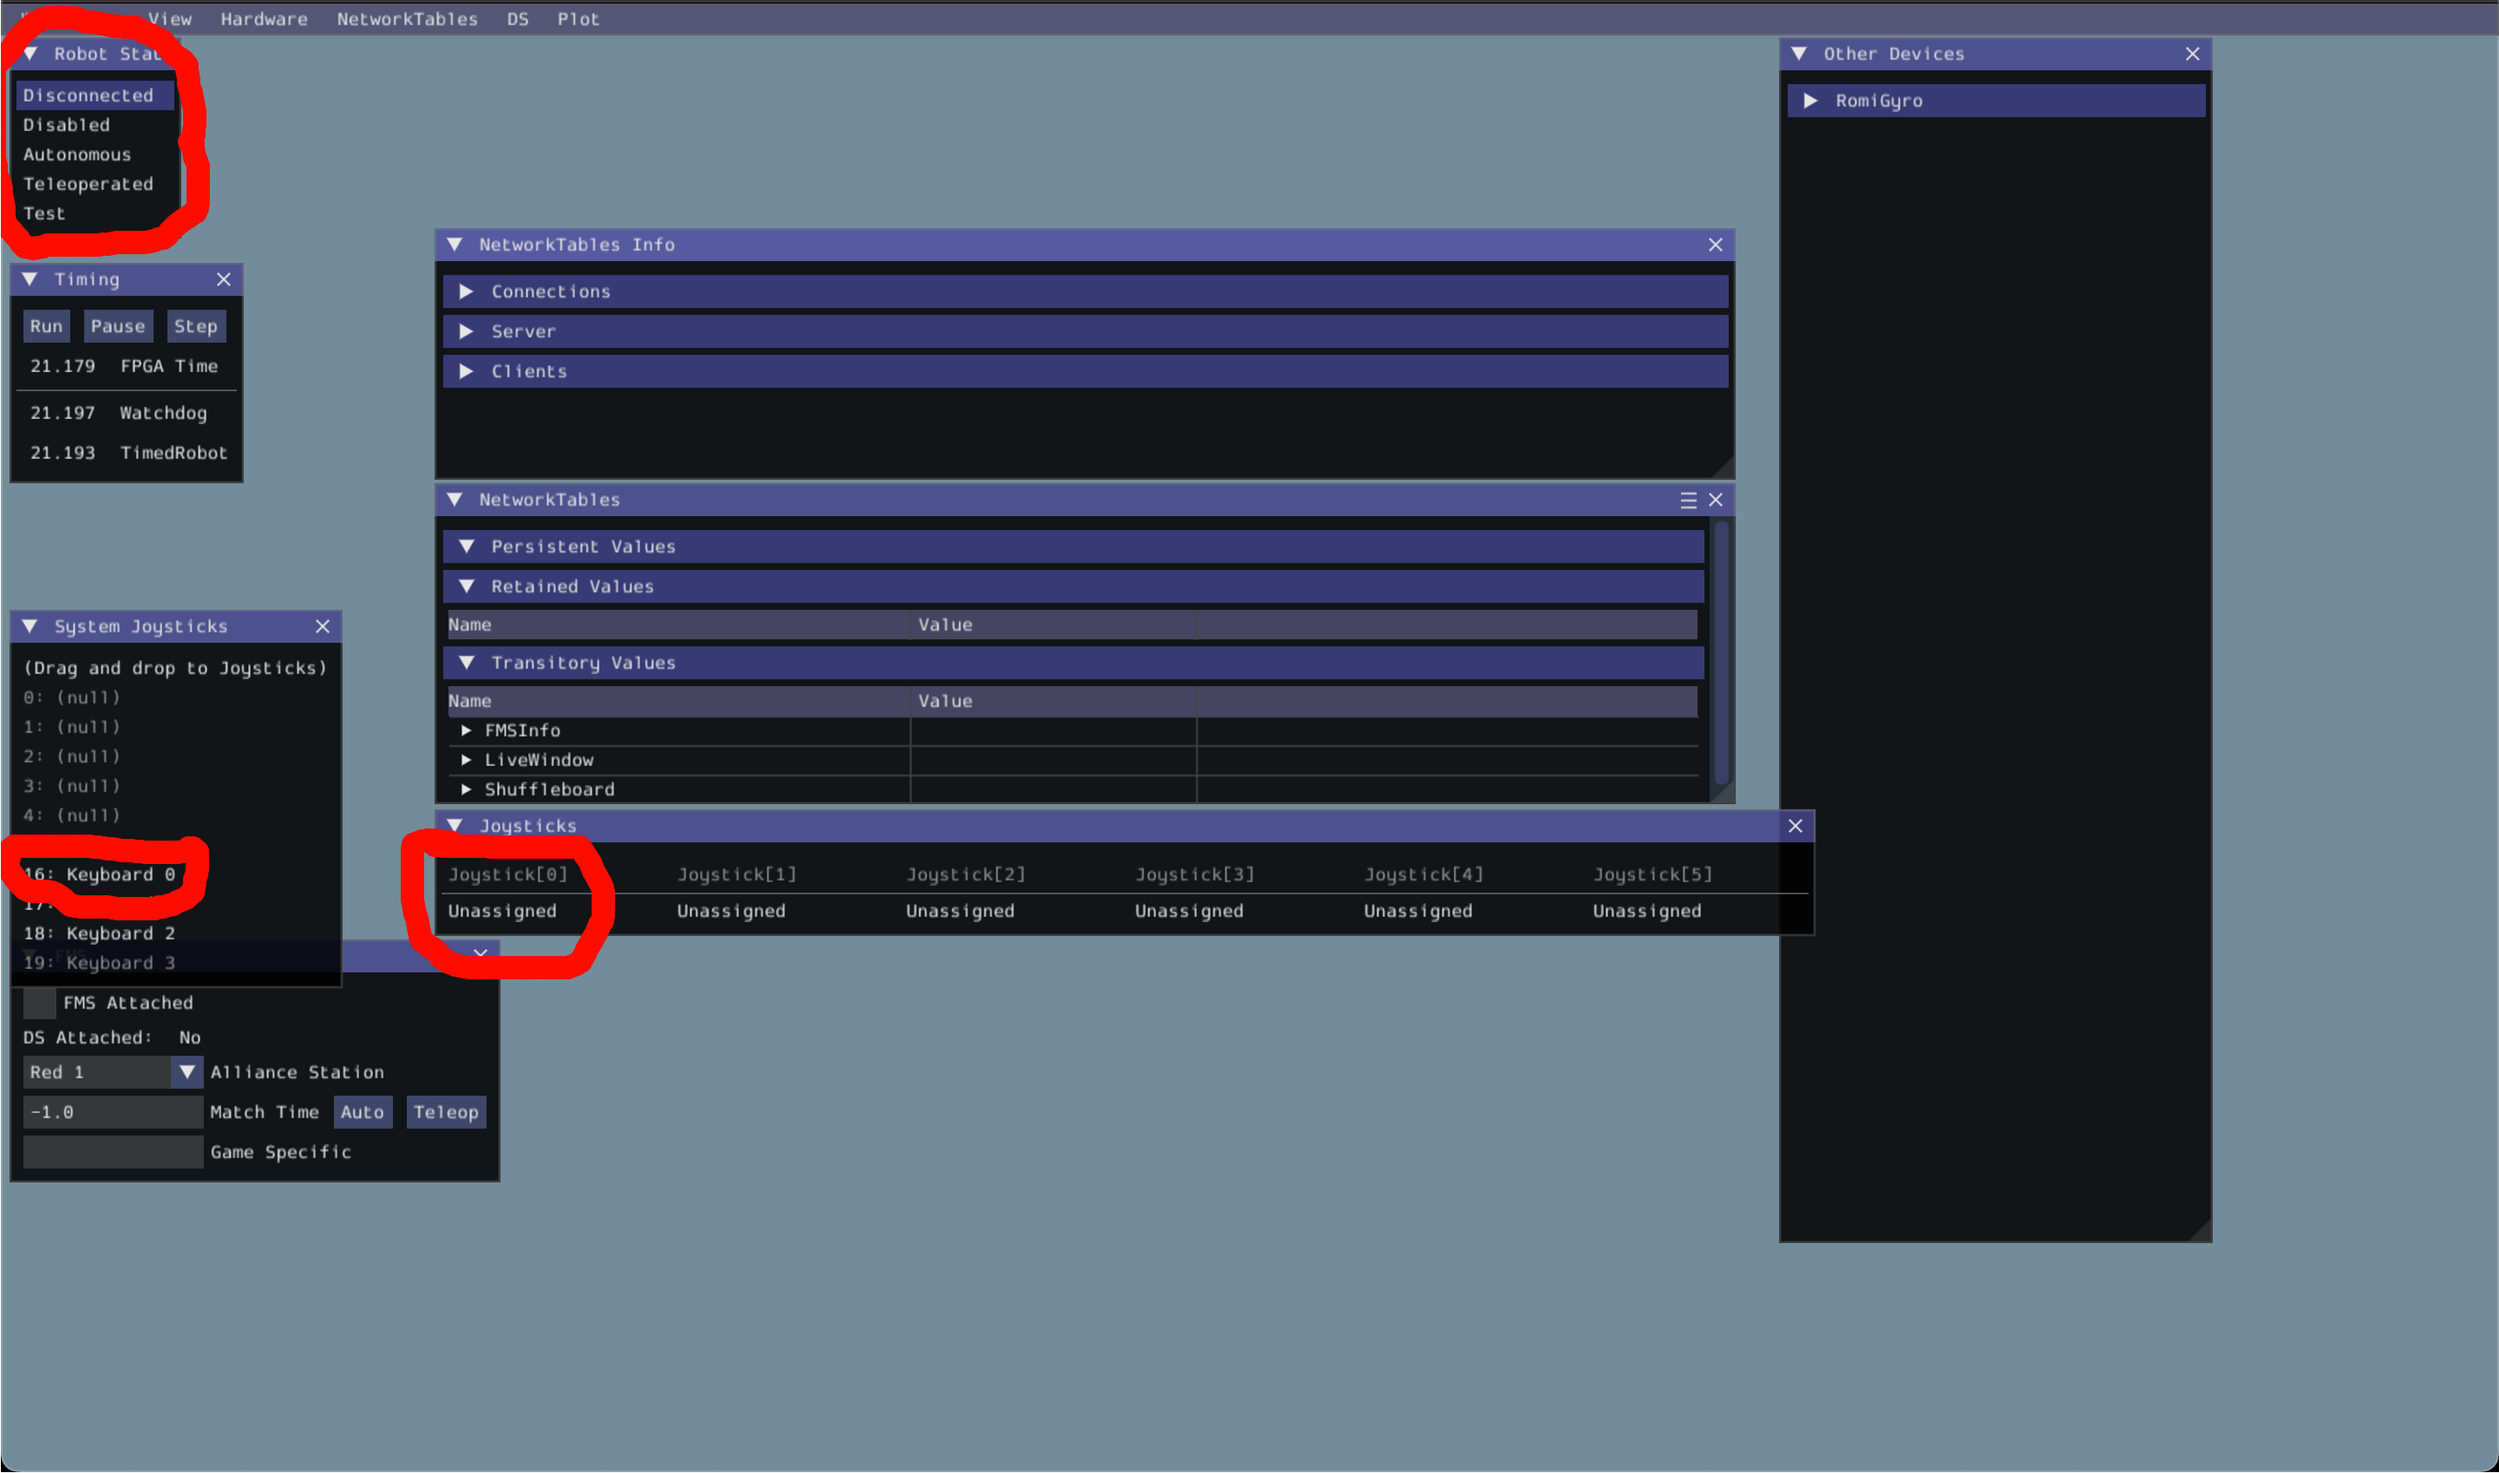
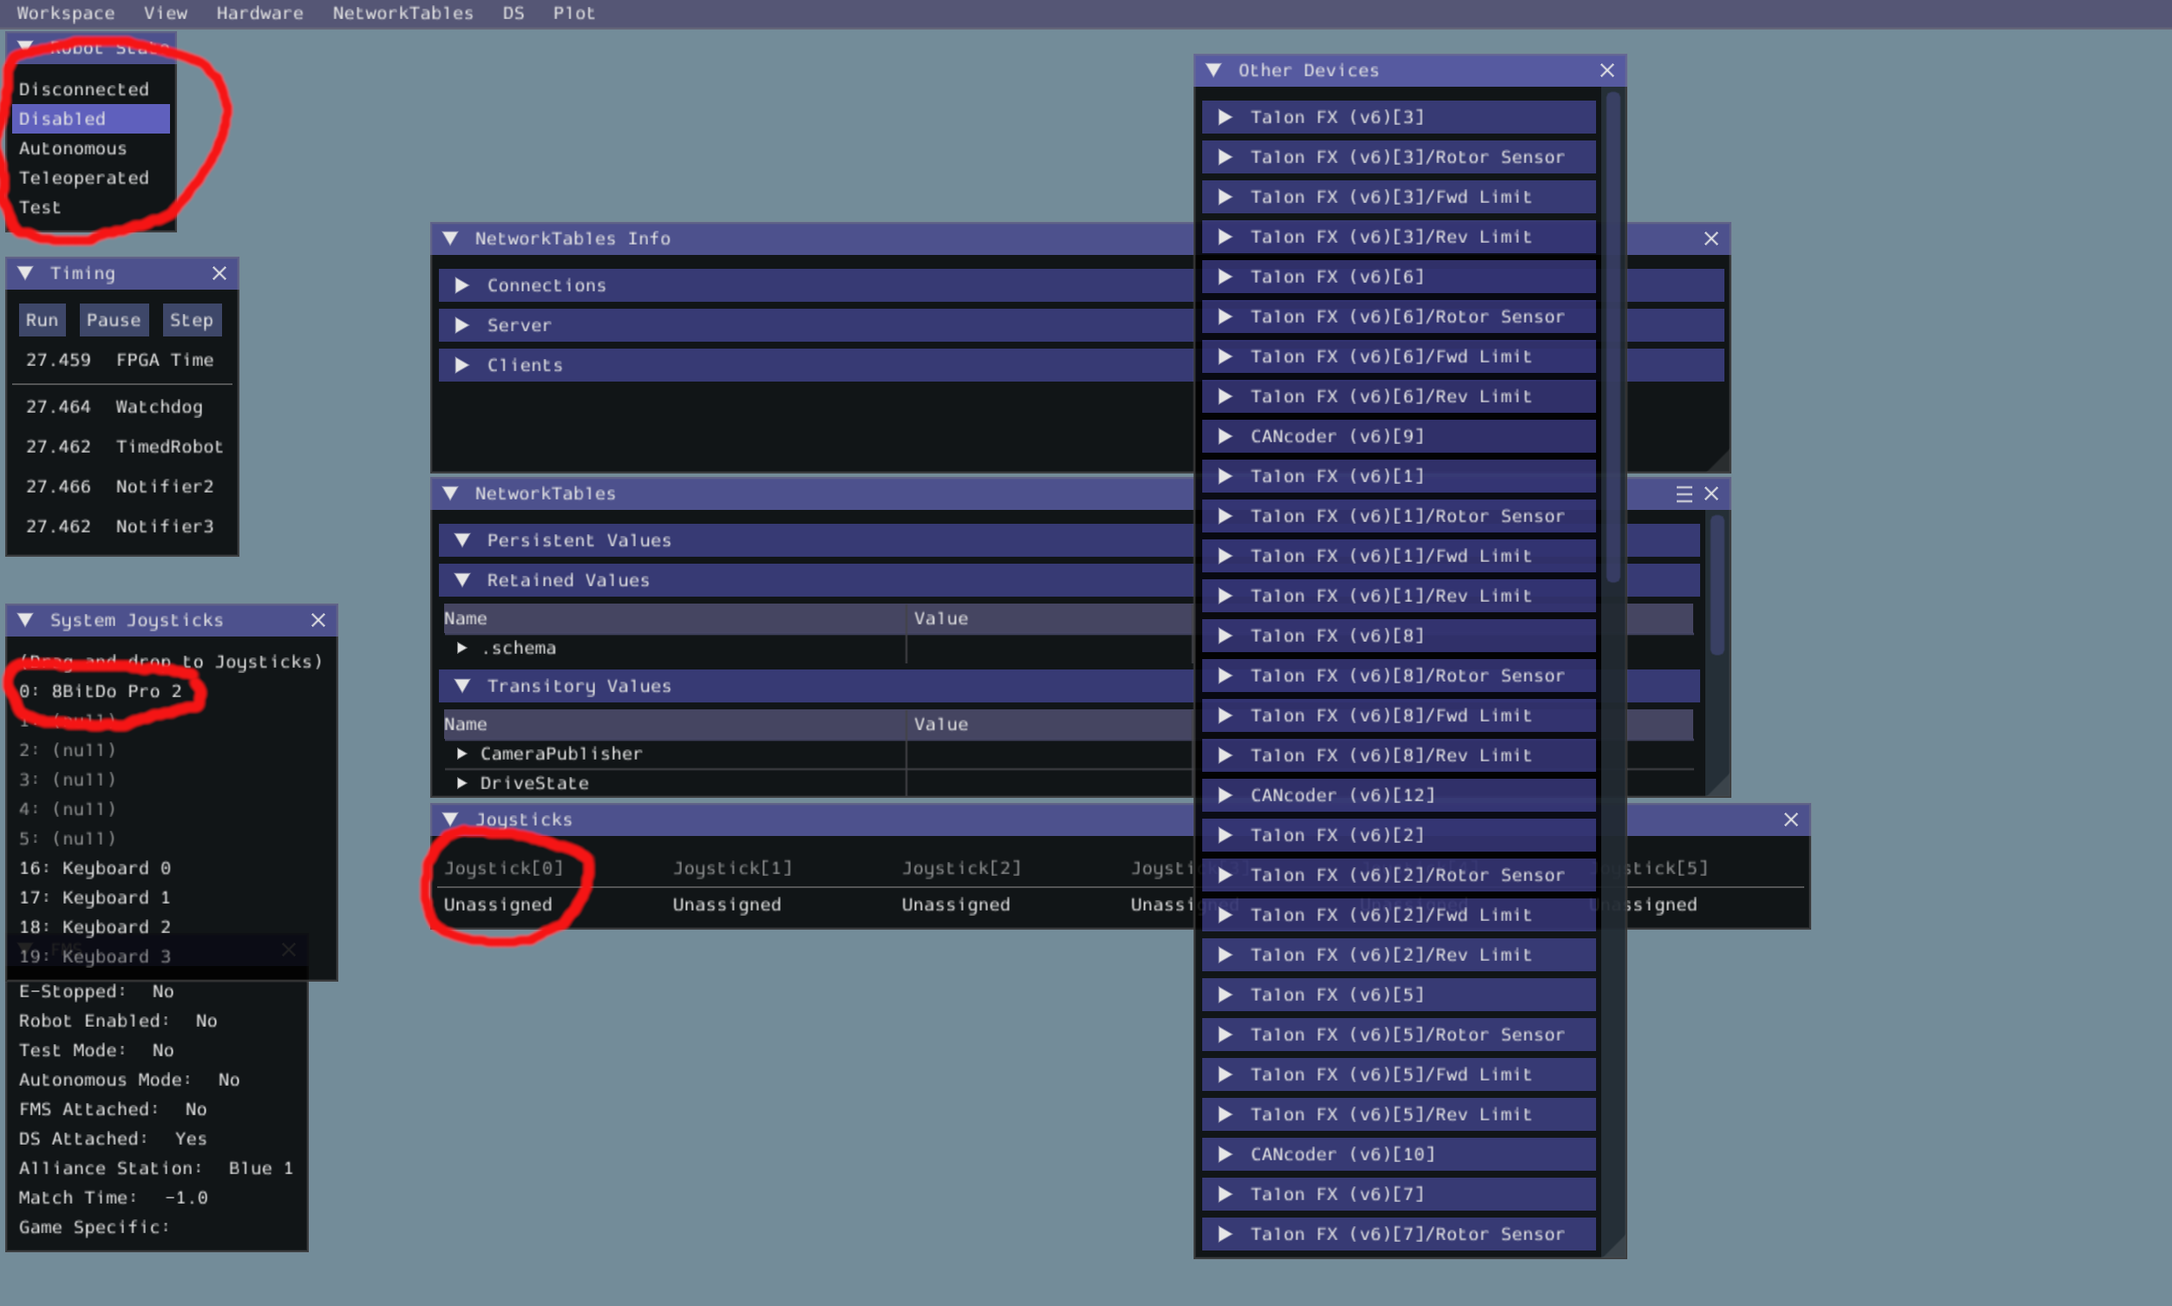
update section on simgui

diff --git a/Task 1/Instructions.md b/Task 1/Instructions.md
@@ -9,9 +9,11 @@ In order to run code on a romi, you need to connect to its wifi network, called 
 
 <img src="./sim.png" alt="sim window" width="960"/>
 
-The most important sections are robot state in the top left and the joystick section. The robot mode lets you change the mode of the robot to be different things like disconnected, disabled, teleop, and autonomous, when you are manually driving the robot it should be in teleop. If you are using a joystick you can bind wasd to a joystick by dragging keyboard 0 onto one of the joysticks.
+The most important sections of the window are the robot state box in the top left and the joystick section slightly below the center. The robot mode selector lets you change the state of the robot, the importiant mode is `Teleop` which is short for teleoperated, where you control the robot remotely.
 
-You can also use an xbox controller, and this is what we recommend because it is what we use on the actual robot, and so you should get used to coding for it.
+To control the robot you need to drag a controller(i used an 8bit do controller but most should work) from the left to `joystick[0]`. And then switch to `Teleop`.
+
+![alt text](simGUI.gif)
 
 ## Objectives 
 Off the template command-based Romi project, create a command that will allow joystick or keyboard input to control the Romi drivetrain. Create commands to drive the Romi forward and rotate it a certain amount. Whenever you see words in parenthesis after another word, that is showing another name for the word that might help you figure out what it means. For example, a method is commonly referred to as a function in other coding languages, and the math meaning of the word function is more intuitive for understanding what a function is to some people.
